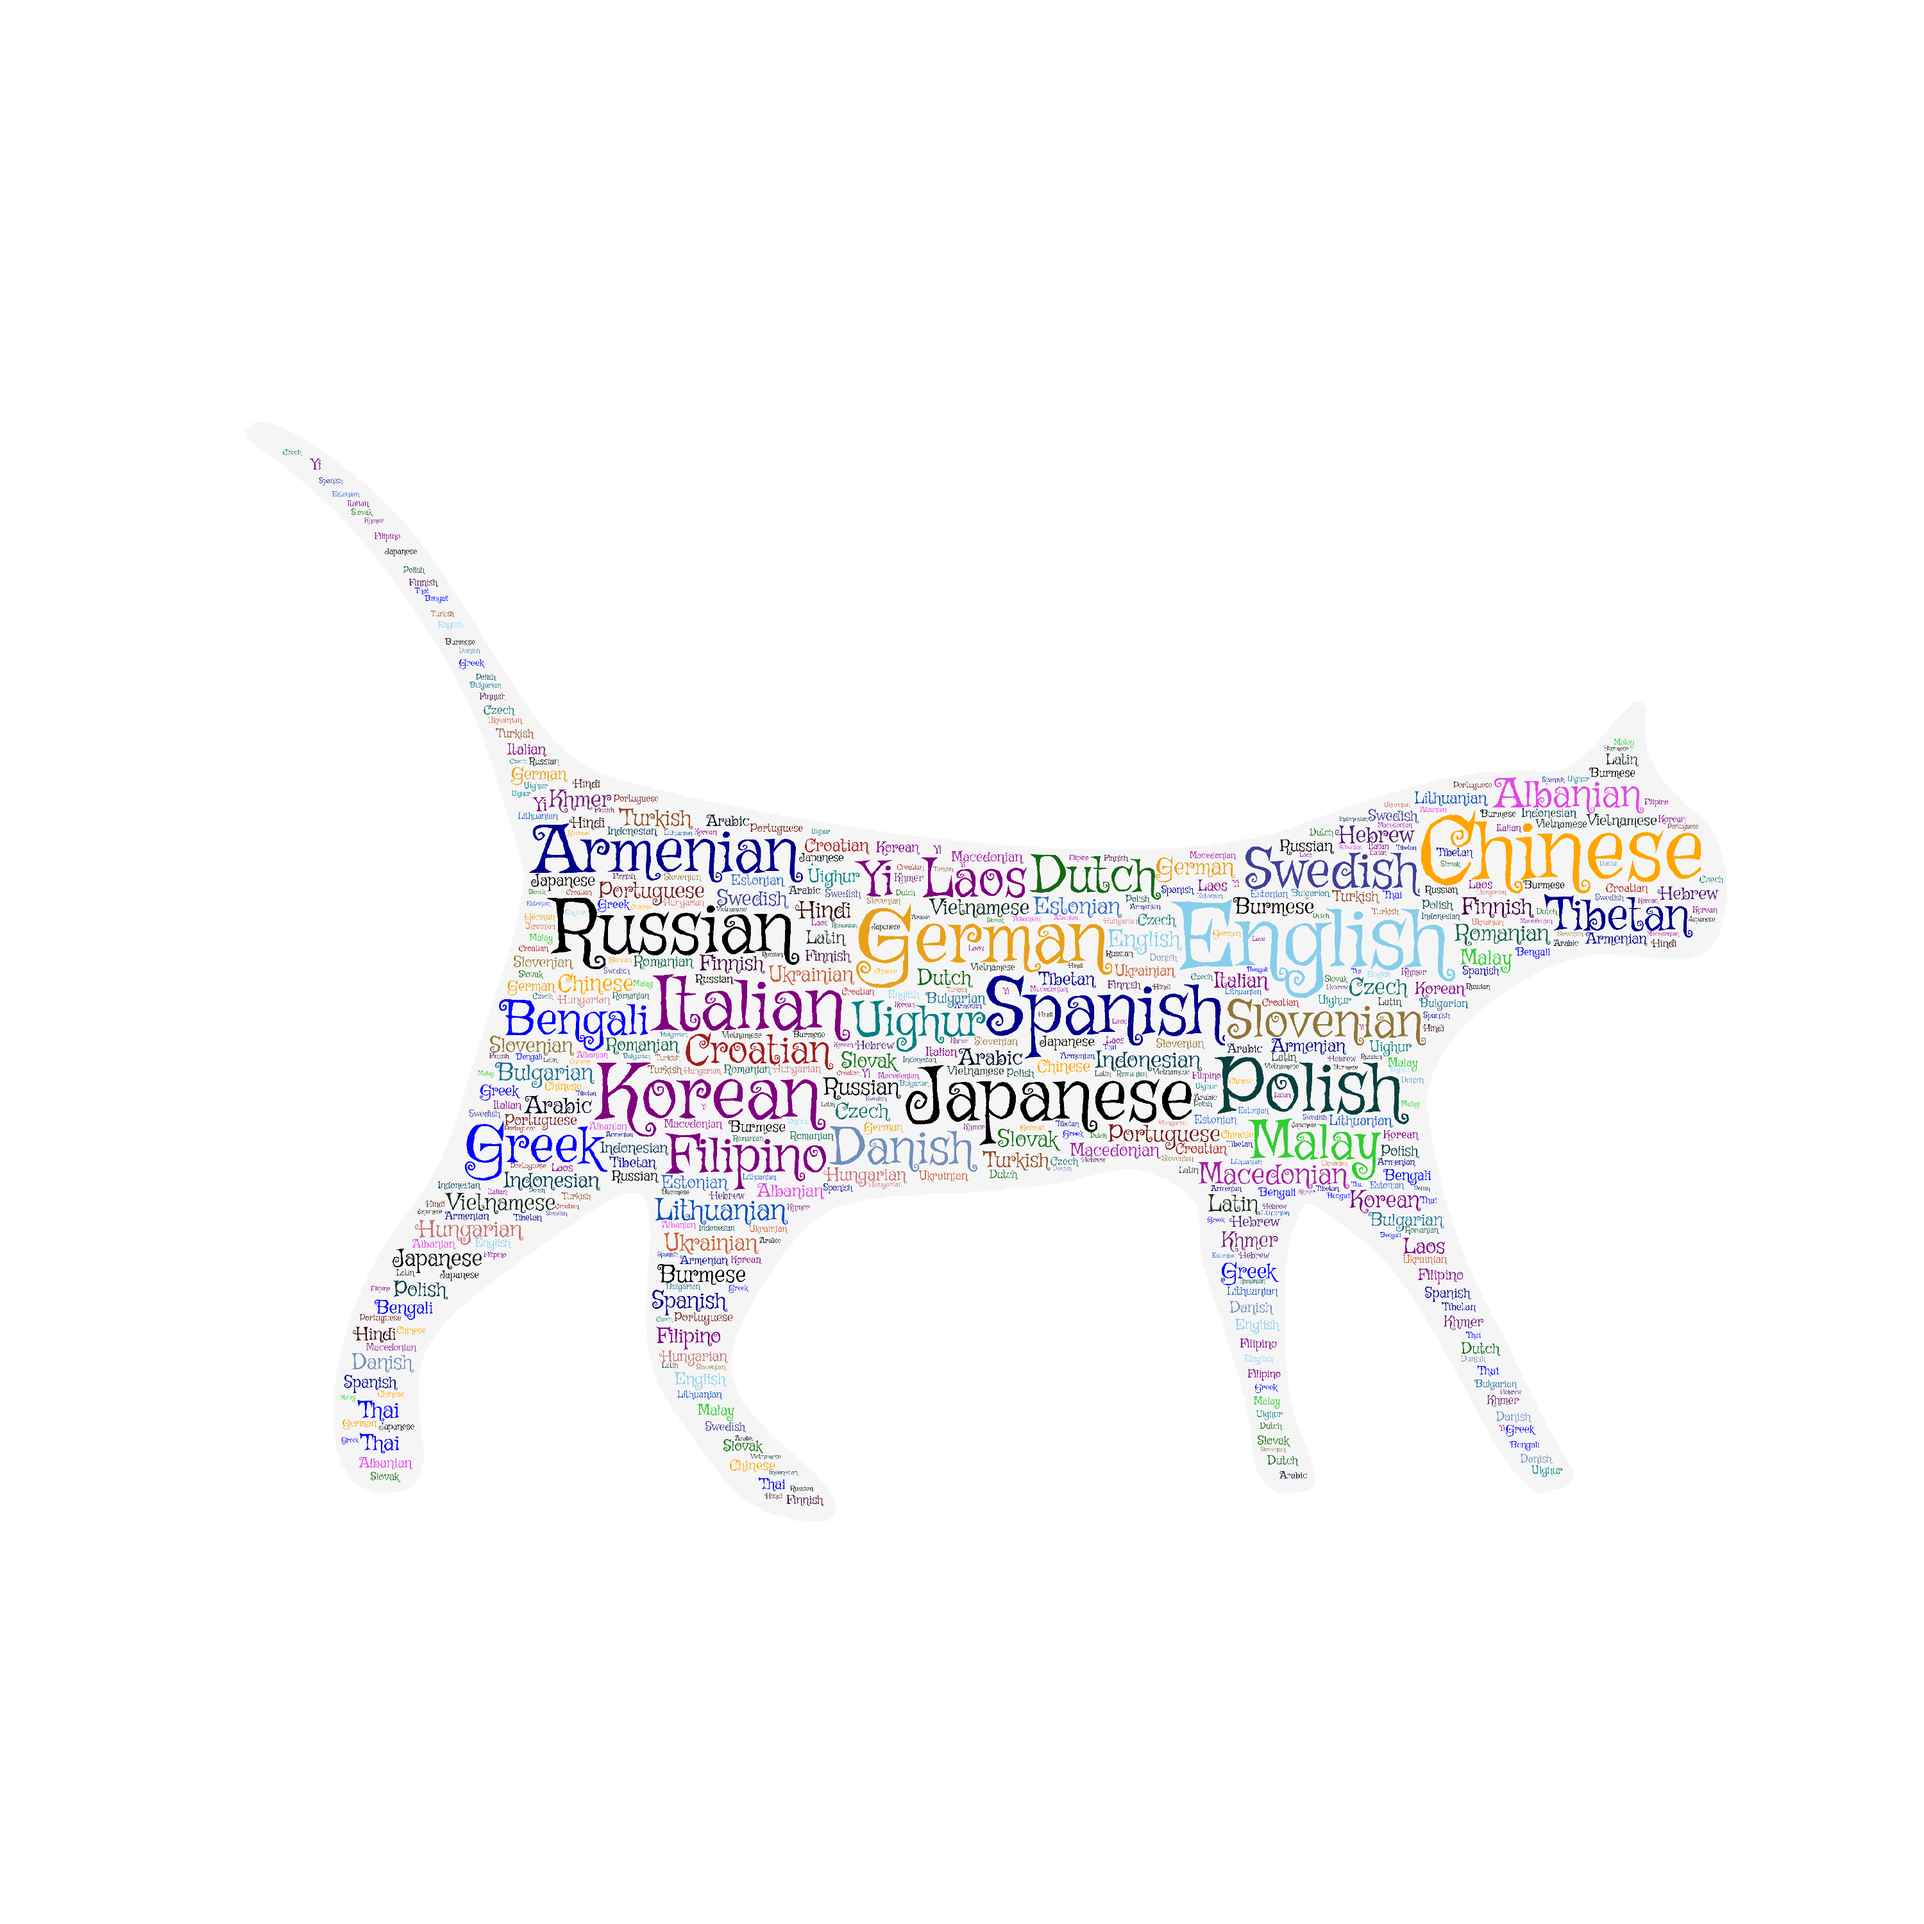
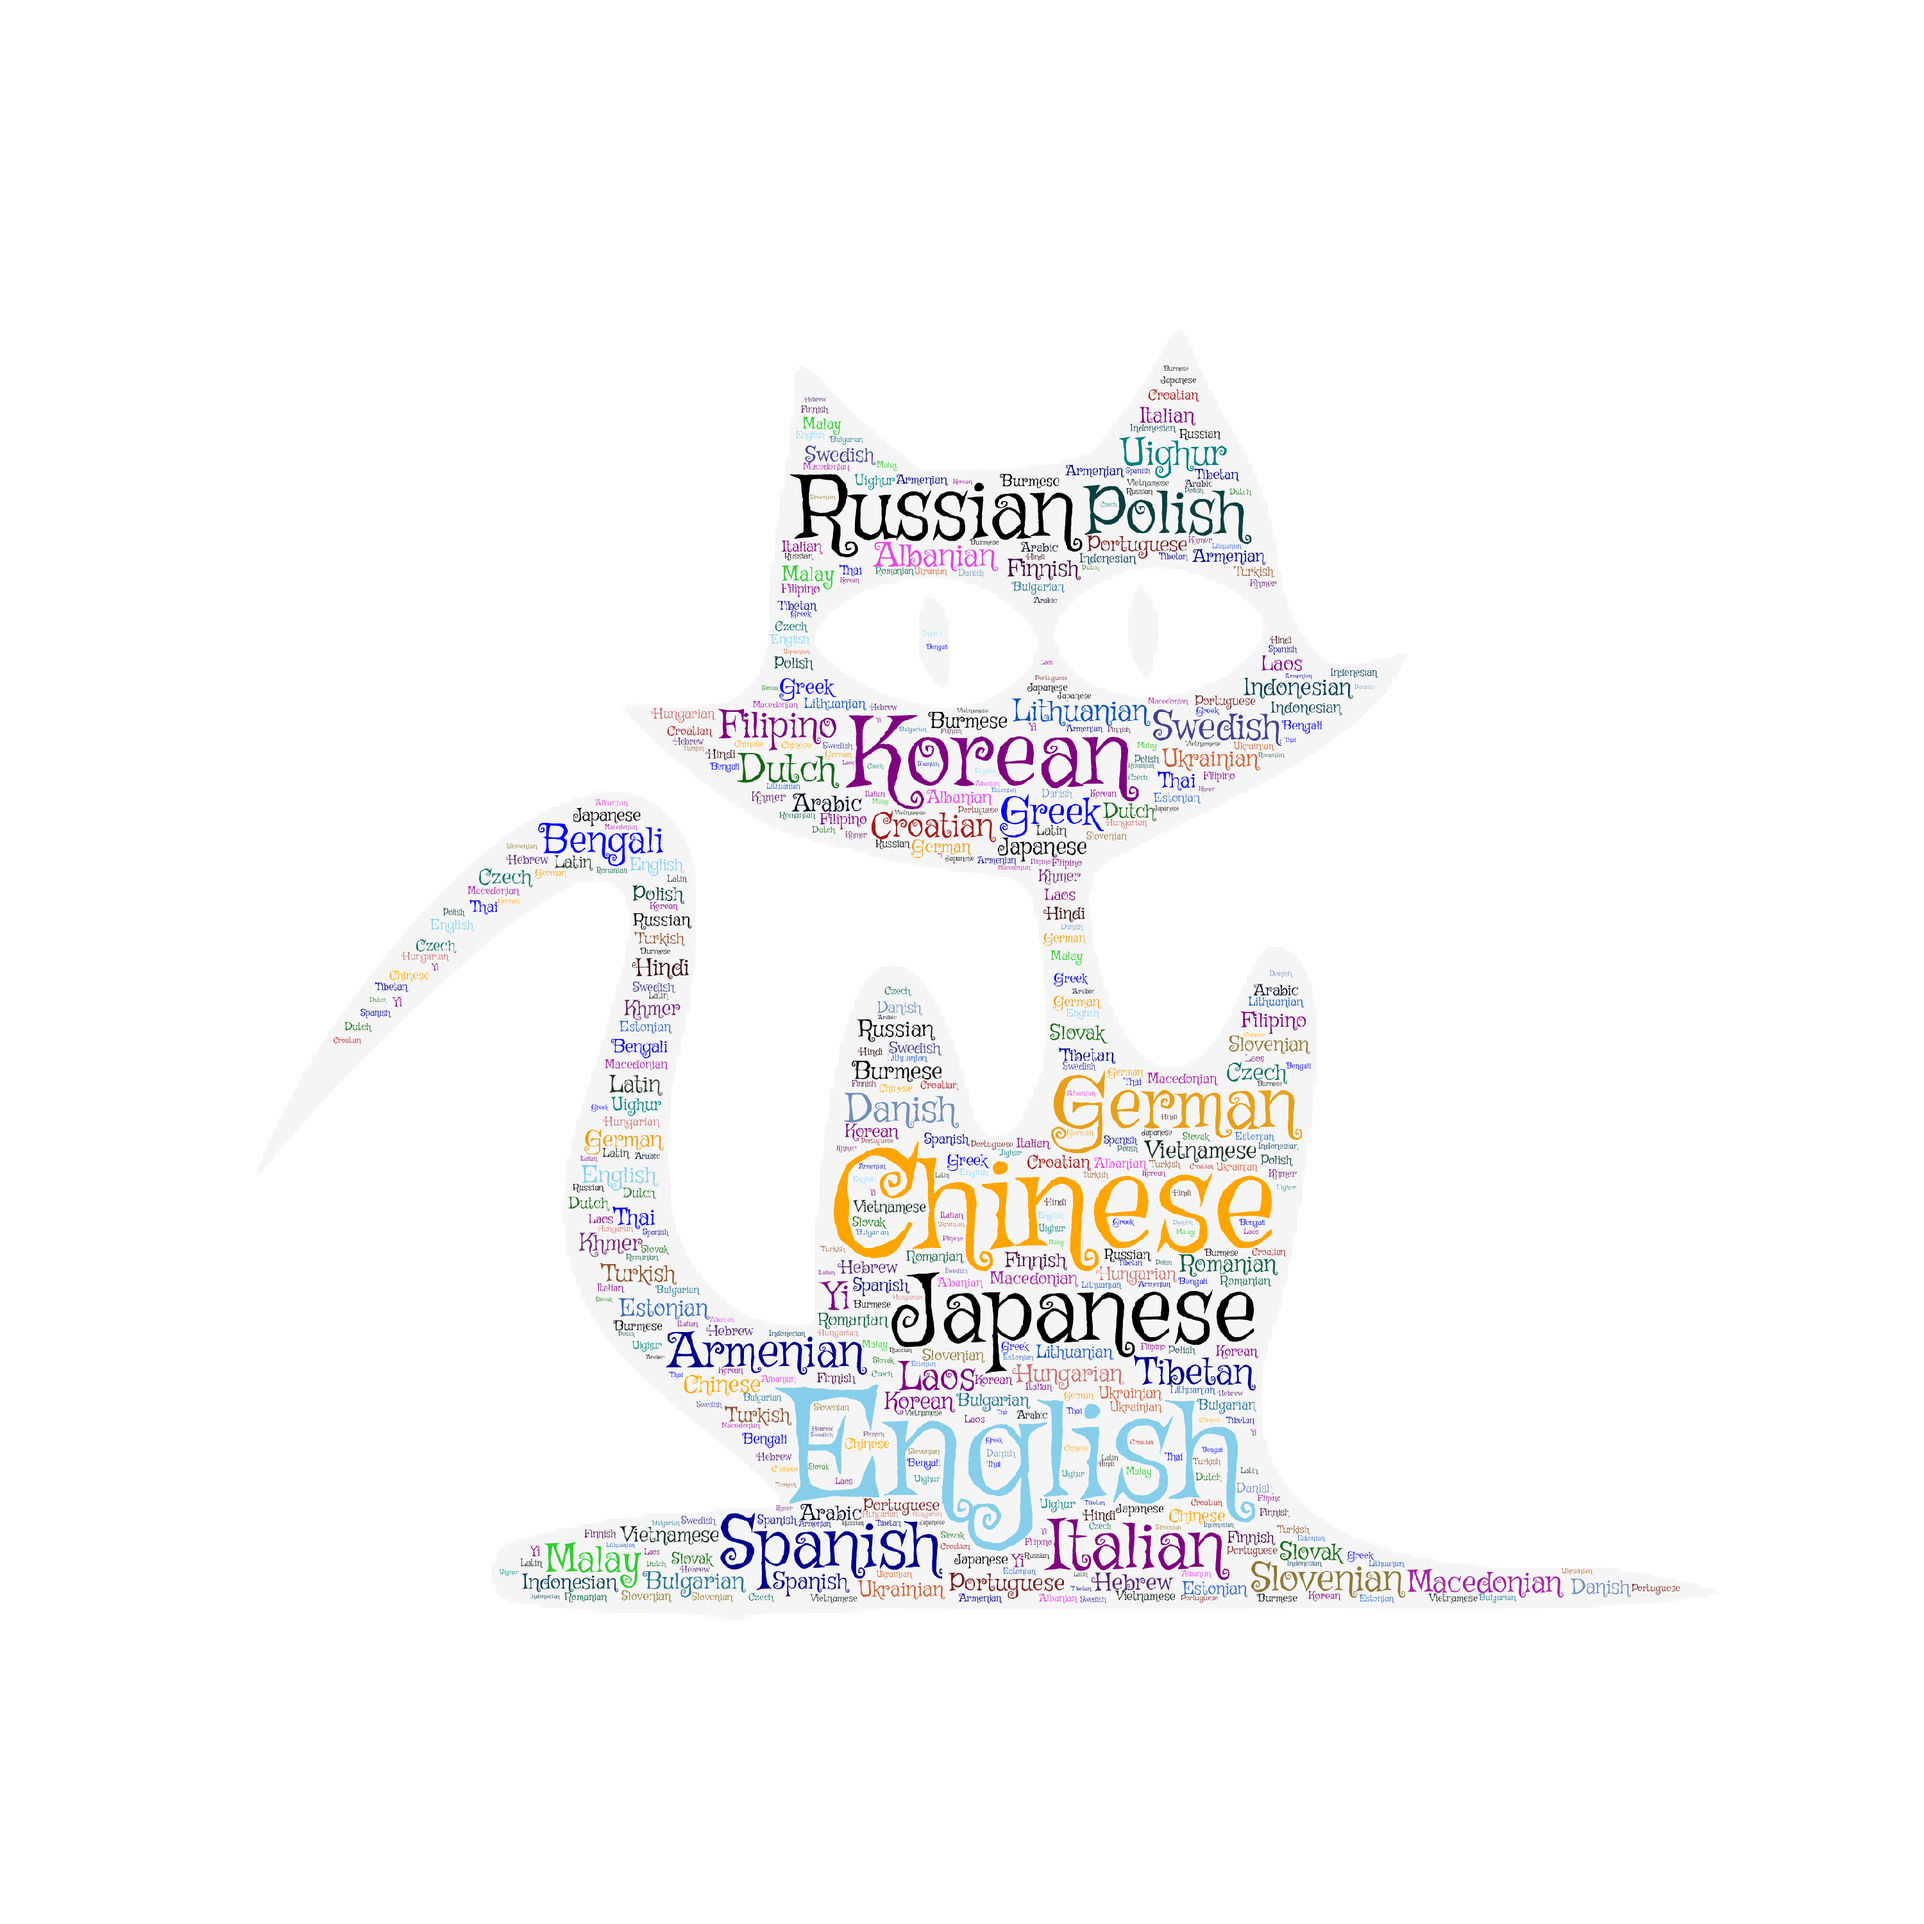
bug fix and catoon cat

diff --git a/word_graph_utils.py b/word_graph_utils.py
@@ -30,9 +30,11 @@ def to_rgb(cc):
 
 
 def maxmin_fig(mask):
-    mi = np.min(mask, axis=(0, 1))
-    mx = np.max(mask, axis=(0, 1))
-    mm = (mask - mi) / (mx - mi) * 255
+    mask_mean = np.mean(mask[:, :, :3], axis=2)
+    mi = np.min(mask_mean, axis=(0, 1))
+    mx = np.max(mask_mean, axis=(0, 1))
+    mm = (mask_mean - mi) / (mx - mi) * 255
+    mm = np.array([mm] * 3).transpose((1, 2, 0))
     return mm.astype("uint8")
 
 
@@ -78,7 +80,7 @@ class gen_items:
 
 if __name__ == '__main__':
     font_path = "./fonts/Griffy-Regular.ttf"
-    mask_path = "./backgrounds/cat.png"
+    mask_path = "./backgrounds/catoon_cat.png"
     with open("./text/YiCAT词云参数.txt", "r", encoding="utf8") as f:
         params = f.readlines()
     p_dict = {}
@@ -96,16 +98,17 @@ if __name__ == '__main__':
     mask_origin = np.array(Image.open(mask_path))
     mask_pic = mask_origin[:, :, :3]
     # mask resize
-    mask_less = cv2.resize(mask_pic, (mask_pic.shape[1] * 8, mask_pic.shape[0] * 8))  # resize mask
-    mask_less = maxmin_fig(mask_less)
-    mask_less = 255 - square_fig(255 - mask_less)
+    mask_size = (5000, 5000)
+    pad_size = 100
+    mask_less = maxmin_fig(mask_pic)
+    mask_less = 255 - square_fig(mask_less)
+    mask_less = cv2.resize(mask_less, np.array(mask_size) - pad_size)  # resize mask
     # maskmore and maskless,
     # maskmore(mask_more) is the background, maskless(mask_less) is the wordcloud
-    pad_size = 100
     mar = int(pad_size / 2)
     mask_more = cv2.resize(mask_less, (mask_less.shape[1] + pad_size, mask_less.shape[0] + pad_size))
     mask_less = cv2.dilate(mask_more, np.ones((mar, mar), np.uint8), iterations=1)
-    mask_transparent = cv2.resize(square_fig(mask_origin), (mask_more.shape[1], mask_more.shape[0]))[:, :, 3]
+    # mask_transparent = cv2.resize(square_fig(mask_origin), (mask_more.shape[1], mask_more.shape[0]))[:, :, 3]
 
     wc = WordCloudPos(font_path=font_path,
                       prefer_horizontal=1,
@@ -118,7 +121,8 @@ if __name__ == '__main__':
                       )
 
     # user defined position
-    userdefpos = {"English": (2211, 3059), "Chinese": (1916, 3878)}
+    # userdefpos = {"English": (2211, 3059), "Chinese": (1916, 3878)}
+    userdefpos = {}
 
     # replacement for p_dict.index
     wc.set_word_replace("\u0000")
@@ -141,8 +145,8 @@ if __name__ == '__main__':
     # plot
     plt.figure(figsize=(30, 30))  # larger, better quality
     bmp_fig = back + frnt + mask_more
-    png_fig = np.array([*bmp_fig.transpose((2, 0, 1)), mask_transparent]).transpose((1, 2, 0))
-    plt.imshow(png_fig)
+    # png_fig = np.array([*bmp_fig.transpose((2, 0, 1)), mask_transparent]).transpose((1, 2, 0))
+    plt.imshow(bmp_fig)
     plt.axis("off")
     plt.savefig("word_graph1.png")
     plt.close()

diff --git a/utils/wordcloudpos.py b/utils/wordcloudpos.py
@@ -93,7 +93,7 @@ class WordCloudPos(WordCloud):
                 # we only have one word. We make it big!
                 font_size = self.height
             else:
-                self.generate_from_frequencies_positions(dict(frequencies[:2]), positions,
+                self.generate_from_frequencies_positions(dict(frequencies[:2]), userdefpos,
                                                          max_font_size=self.height)
                 # find font sizes
                 sizes = [x[1] for x in self.layout_]
